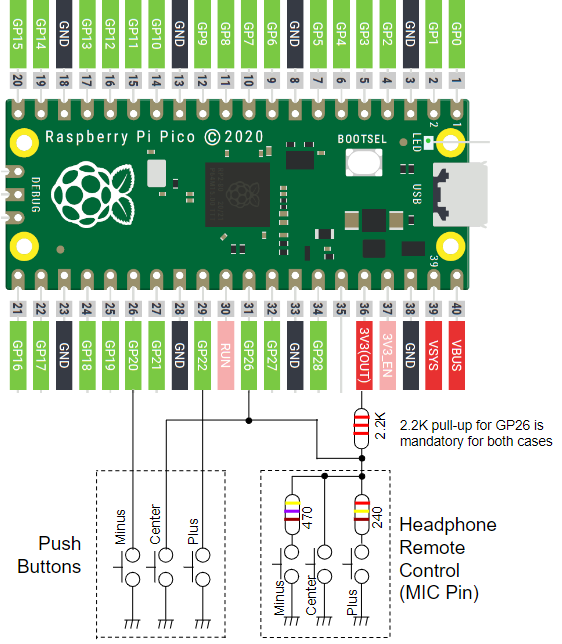
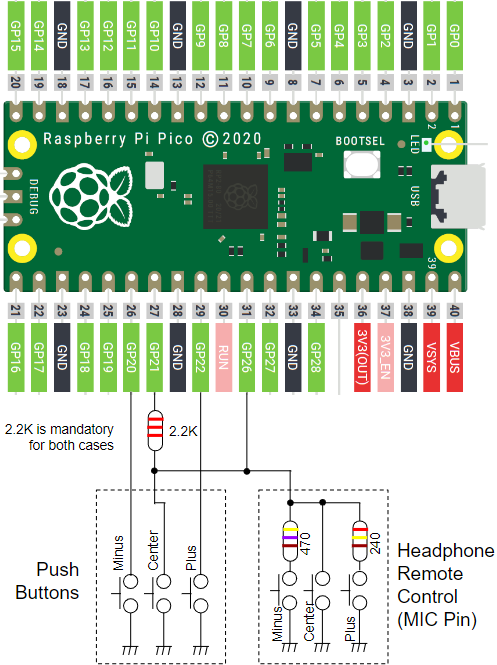
change pullup register for buttons into conditional pullup for power on by any HP buttons

diff --git a/src/power_manage.cpp b/src/power_manage.cpp
@@ -31,23 +31,25 @@
 
 // === Pin Settings for power management ===
 // DC/DC mode selection Pin
-static const uint32_t PIN_DCDC_PSM_CTRL = 23;
+static constexpr uint32_t PIN_DCDC_PSM_CTRL = 23;
 // USB Charge detect Pin
-static const uint32_t PIN_USB_POWER_DETECT = 24;
+static constexpr uint32_t PIN_USB_POWER_DETECT = 24;
+// Conditional pullup for PIN_HP_BUTTON
+static constexpr uint32_t PIN_COND_PU_BUTTONS = 21;
 // Power Keep Pin
-static const uint32_t PIN_POWER_KEEP = 19;
+static constexpr uint32_t PIN_POWER_KEEP = 19;
 // Audio DAC Enable Pin
-static const uint32_t PIN_AUDIO_DAC_ENABLE = 27;
+static constexpr uint32_t PIN_AUDIO_DAC_ENABLE = 27;
 #ifdef USE_ACTIVE_BATTERY_CHECK
 // Battery Check Pin
-static const uint32_t PIN_BATT_CHECK = 8;
+static constexpr uint32_t PIN_BATT_CHECK = 8;
 // Battery Voltage Pin (GPIO28: ADC2)
-static const uint32_t PIN_BATT_LVL = 28;
-static const uint32_t ADC_PIN_BATT_LVL = 2;
+static constexpr uint32_t PIN_BATT_LVL = 28;
+static constexpr uint32_t ADC_PIN_BATT_LVL = 2;
 #else // USE_ACTIVE_BATTERY_CHECK
 // Battery Voltage Pin (GPIO29: ADC3) (Raspberry Pi Pico built-in circuit)
-static const uint32_t PIN_BATT_LVL = 29;
-static const uint32_t ADC_PIN_BATT_LVL = 3;
+static constexpr uint32_t PIN_BATT_LVL = 29;
+static constexpr uint32_t ADC_PIN_BATT_LVL = 3;
 #endif // USE_ACTIVE_BATTERY_CHECK
 
 // ADC Timer & frequency
@@ -100,6 +102,10 @@ void pm_init()
     gpio_init(PIN_POWER_KEEP);
     gpio_set_dir(PIN_POWER_KEEP, GPIO_OUT);
 
+    // Conditional pullup for HP buttons Pin (Output)
+    gpio_init(PIN_COND_PU_BUTTONS);
+    gpio_set_dir(PIN_COND_PU_BUTTONS, GPIO_OUT);
+
     // Audio DAC Disable (Mute On)
     gpio_init(PIN_AUDIO_DAC_ENABLE);
     gpio_set_dir(PIN_AUDIO_DAC_ENABLE, GPIO_OUT);
@@ -129,9 +135,9 @@ void pm_init()
     timer_init_battery_check();
 }
 
-void pm_set_audio_dac_enable(bool value)
+void pm_set_audio_dac_enable(bool flag)
 {
-    gpio_put(PIN_AUDIO_DAC_ENABLE, value);
+    gpio_put(PIN_AUDIO_DAC_ENABLE, flag);
 }
 
 void pm_monitor_battery_voltage()
@@ -171,9 +177,14 @@ bool pm_usb_power_detected()
     return gpio_get(PIN_USB_POWER_DETECT);
 }
 
-void pm_set_power_keep(bool value)
+void pm_set_power_keep(bool flag)
 {
-    gpio_put(PIN_POWER_KEEP, value);
+    gpio_put(PIN_POWER_KEEP, flag);
+}
+
+void pm_enable_button_control(bool flag)
+{
+    gpio_put(PIN_COND_PU_BUTTONS, flag);
 }
 
 bool pm_get_low_battery()

diff --git a/src/ui_control.cpp b/src/ui_control.cpp
@@ -18,8 +18,8 @@
 #include "ConfigMenu.h"
 
 // SW PIN setting
-static const uint32_t PIN_SW_PLUS = 22;
-static const uint32_t PIN_SW_MINUS = 20;
+static constexpr uint32_t PIN_SW_PLUS = 22;
+static constexpr uint32_t PIN_SW_MINUS = 20;
 
 // ADC Timer
 static repeating_timer_t timer;
@@ -27,20 +27,20 @@ static repeating_timer_t timer;
 const int TIMER_UI_BUTTON_HZ = 20;
 
 // Android Headphone Remote Control Pin (GPIO26: ADC0)
-static const uint32_t PIN_HP_BUTTON = 26;
-static const uint32_t ADC_PIN_HP_BUTTON = 0;
+static constexpr uint32_t PIN_HP_BUTTON = 26;
+static constexpr uint32_t ADC_PIN_HP_BUTTON = 0;
 
 // Configuration for button recognition
-static const uint32_t RELEASE_IGNORE_COUNT = 8;
-static const uint32_t LONG_PUSH_COUNT = 10;
-static const uint32_t LONG_LONG_PUSH_COUNT = 30;
+static constexpr uint32_t RELEASE_IGNORE_COUNT = 8;
+static constexpr uint32_t LONG_PUSH_COUNT = 10;
+static constexpr uint32_t LONG_LONG_PUSH_COUNT = 30;
 
-static const uint32_t NUM_BTN_HISTORY = 30;
+static constexpr uint32_t NUM_BTN_HISTORY = 30;
 static button_status_t button_prv[NUM_BTN_HISTORY] = {}; // initialized as HP_BUTTON_OPEN
 static uint32_t button_repeat_count = LONG_LONG_PUSH_COUNT; // to ignore first buttton press when power-on
 
 static queue_t btn_evt_queue;
-static const int QueueLength = 1;
+static constexpr int QueueLength = 1;
 
 UIVars vars;
 UIMode* ui_mode = nullptr;

diff --git a/src/UserFlash.h b/src/UserFlash.h
@@ -23,11 +23,11 @@ public:
     void writeReserve(uint32_t flash_ofs, size_t size, const void *buf);
     bool program();
 protected:
-    static const size_t FlashSize = 0x200000; // 2MB
-    static const size_t UserReqSize = 1024; // Byte
-    static const size_t EraseSize = ((UserReqSize + (FLASH_SECTOR_SIZE - 1)) / FLASH_SECTOR_SIZE) * FLASH_SECTOR_SIZE;
-    static const size_t PagePgrSize = ((UserReqSize + (FLASH_PAGE_SIZE - 1)) / FLASH_PAGE_SIZE) * FLASH_PAGE_SIZE;
-    static const uint32_t UserFlashOfs = FlashSize - EraseSize;
+    static constexpr size_t FlashSize = 0x200000; // 2MB
+    static constexpr size_t UserReqSize = 1024; // Byte
+    static constexpr size_t EraseSize = ((UserReqSize + (FLASH_SECTOR_SIZE - 1)) / FLASH_SECTOR_SIZE) * FLASH_SECTOR_SIZE;
+    static constexpr size_t PagePgrSize = ((UserReqSize + (FLASH_PAGE_SIZE - 1)) / FLASH_PAGE_SIZE) * FLASH_PAGE_SIZE;
+    static constexpr uint32_t UserFlashOfs = FlashSize - EraseSize;
     const uint8_t *flashContents = (const uint8_t *) (XIP_BASE + UserFlashOfs);
 	static UserFlash _instance; // Singleton
     uint8_t data[PagePgrSize];

diff --git a/lib/LcdElementBox/LcdElementBox.h b/lib/LcdElementBox/LcdElementBox.h
@@ -92,8 +92,8 @@ public:
 	void draw();
 	void clear();
 	void setIcon(uint8_t* icon);
-	static const int iconWidth = 16;
-	static const int iconHeight = 16;
+	static constexpr int iconWidth = 16;
+	static constexpr int iconHeight = 16;
 protected:
 	bool isUpdated;
 	int16_t pos_x, pos_y;
@@ -121,9 +121,9 @@ public:
 	void setFormatText(const char* fmt, ...);
 	void setInt(int value);
 	void setBlink(bool blink);
-	static const int charSize = 256;
+	static constexpr int charSize = 256;
 protected:
-	static const int BlinkInterval = 20;
+	static constexpr int BlinkInterval = 20;
 	bool isUpdated;
 	int16_t pos_x, pos_y;
 	uint16_t fgColor;
@@ -169,7 +169,7 @@ public:
 	void clear();
 	void setScroll(bool scr_en);
 	virtual void setText(const char* str);
-	static const int charSize = 256;
+	static constexpr int charSize = 256;
 protected:
 	bool isUpdated;
 	int16_t pos_x, pos_y;

diff --git a/src/UIMode.h b/src/UIMode.h
@@ -71,7 +71,7 @@ struct UIVars
 class UIMode
 {
 public:
-    static const int UpdateCycleMs = 50; // loop cycle (ms) (= LoopCycleMs value in arduino_main.cpp)
+    static constexpr int UpdateCycleMs = 50; // loop cycle (ms) (= LoopCycleMs value in arduino_main.cpp)
     static void initialize(UIVars* vars);
     UIMode(const char* name, ui_mode_enm_t ui_mode_enm);
     virtual UIMode* update() = 0;
@@ -86,8 +86,8 @@ protected:
         FatFsError,
         LowBatteryVoltage
     } ExitType;
-    static const int OneSec = 1000 / UpdateCycleMs; // 1 Sec
-    static const int OneMin = 60 * OneSec; // 1 Min
+    static constexpr int OneSec = 1000 / UpdateCycleMs; // 1 Sec
+    static constexpr int OneMin = 60 * OneSec; // 1 Min
     static button_action_t btn_act;
     static UIVars* vars;
     static stack_t* dir_stack;

diff --git a/lib/PlayAudio/i2s_audio_init.h b/lib/PlayAudio/i2s_audio_init.h
@@ -8,8 +8,8 @@
 
 #include "pico/audio_i2s.h"
 
-static const int SAMPLES_PER_BUFFER = PICO_AUDIO_I2S_BUFFER_SAMPLE_LENGTH; // Samples / channel
-static const int32_t DAC_ZERO = 1; // to avoid pop noise caused by auto-mute function of DAC
+static constexpr int SAMPLES_PER_BUFFER = PICO_AUDIO_I2S_BUFFER_SAMPLE_LENGTH; // Samples / channel
+static constexpr int32_t DAC_ZERO = 1; // to avoid pop noise caused by auto-mute function of DAC
 
 void i2s_setup(uint32_t samp_freq, audio_buffer_pool_t*& ap);
 void i2s_audio_init(uint32_t sample_freq);

diff --git a/lib/PlayAudio/PlayAudio.h b/lib/PlayAudio/PlayAudio.h
@@ -22,8 +22,8 @@ public:
         AUDIO_CODEC_NONE = 0,
         AUDIO_CODEC_WAV
     } audio_codec_t;
-    static const int RDBUF_SIZE = SAMPLES_PER_BUFFER * 8;  // 4 (16bit), 6 (24bit), 8 (32bit)
-    static const int RDBUF_THRESHOLD = RDBUF_SIZE / 4;
+    static constexpr int RDBUF_SIZE = SAMPLES_PER_BUFFER * 8;  // 4 (16bit), 6 (24bit), 8 (32bit)
+    static constexpr int RDBUF_THRESHOLD = RDBUF_SIZE / 4;
     static void initialize();
     static void finalize();
     static void volumeUp();

diff --git a/src/power_manage.h b/src/power_manage.h
@@ -14,10 +14,11 @@ extern "C" {
 
 void pm_backlight_update();
 void pm_init();
-void pm_set_audio_dac_enable(bool value);
+void pm_set_audio_dac_enable(bool flag);
 void pm_monitor_battery_voltage();
 bool pm_usb_power_detected();
-void pm_set_power_keep(bool value);
+void pm_set_power_keep(bool flag);
+void pm_enable_button_control(bool flag);
 bool pm_get_low_battery();
 uint16_t pm_get_battery_voltage();
 void pm_enter_dormant_and_wake();

diff --git a/src/UIMode.cpp b/src/UIMode.cpp
@@ -156,6 +156,7 @@ void UIChargeMode::entry(UIMode* prevMode)
 {
     UIMode::entry(prevMode);
     lcd.setMsg("Charging", true);
+    pm_enable_button_control(true);  // for wake up
     pm_set_power_keep(false);
 }
 
@@ -236,6 +237,8 @@ void UIOpeningMode::entry(UIMode* prevMode)
 {
     UIMode::entry(prevMode);
     pm_set_power_keep(true);
+    sleep_ms(10);
+    pm_enable_button_control(true);
 
     // Mount FAT
     int count = 0;

diff --git a/README.md b/README.md
@@ -82,12 +82,13 @@ At least either of GPIO Push Buttons or Headphone Remote Control Buttons need to
 | Pico Pin # | GPIO | Function | Connection |
 ----|----|----|----
 | 26 | GP20 | GPIO | Push Button (Minus) |
+| 27 | GP21 | GPIO | Conditional Pullup for Buttons |
 | 29 | GP22 | GPIO | Push Button (Plus) |
 | 31 | GP26 | ADC0 | Headphone Remote Control (MIC pin) and/or Push Button (Center)|
 
-* 2.2Kohm pullup resister is mandatory for both cases.
-
 ![buttons_schematic](doc/RPi_Pico_WAV_Player_buttons_Schematic.png)
+
+* 2.2Kohm pullup resister is mandatory for both cases.
 
 ## Breadboard implementation
 <img width="240" src="doc/RPi_Pico_WAV_Player_Breadboard0.jpg" />
@@ -155,7 +156,7 @@ GP26 also needs to be pulled-up by 2.2Kohm from 3.3V. See schematic for detail.
 * Long push to Power Off (Optional: additional circuit needed)
 
 ### Power On (Optional: additional circuit needed)
-* Long push Center button of Headphone Remote Control
+* Long push Center button or any buttons of Headphone Remote Control
 
 ## Image File Format
 ### Opening Logo File

diff --git a/CHANGELOG.md b/CHANGELOG.md
@@ -14,6 +14,7 @@ and this project adheres to [Semantic Versioning](http://semver.org/).
 
 ### Changed
 * Use submodule for pico_audio_i2s_32b library
+* Change pullup register for buttons into conditional pullup for power on by any HP buttons
 
 ### Fixed
 * Correct track number display when no TAG information in WAV file
